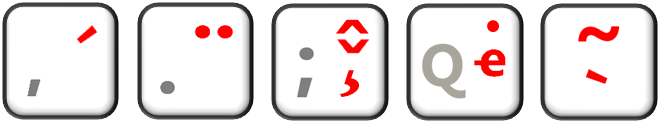
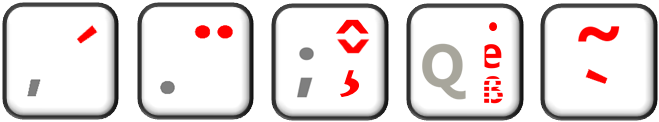
Add files via upload

diff --git a/index.html b/index.html
@@ -241,6 +241,7 @@ It’s a good habit to leave a space after it.)
         <img class="keyIcon" src="img/q.png" alt="q ligature key">
         <h3 class="hd">How to use this key</h3>
         <p class="sub">q+a/o → æ/œ<br><small></small>
+		q+s → ß <small></small><br>
 		qq+abcdefghmnoprstwxyz → ȧḃċḋėḟġḣṁṅȯṗṙṡṫẇẋẏż <small></small><br>
 		Otherwise, it stays as just q</p>
         <div class="rule">
@@ -619,7 +620,7 @@ if (countTrailing(pad, ';') >= 2 && mapCaron[k]) {
 }
 
 // before: if (hasTrailingOne(pad, 'q') && (k==='a'||k==='A'||k==='o'||k==='O'))
-if (countTrailing(pad, 'q') === 1 && (k==='a'||k==='A'||k==='o'||k==='O')) {
+if (countTrailing(pad, 'q') === 1 && (k==='a'||k==='A'||k==='o'||k==='O'||k==='s'||k==='S')) {
   ev.preventDefault(); snapshot();
   const { start } = sel(pad);
   let out = k;
@@ -627,6 +628,8 @@ if (countTrailing(pad, 'q') === 1 && (k==='a'||k==='A'||k==='o'||k==='O')) {
   else if (k === 'A') out = 'Æ';
   else if (k === 'o') out = 'œ';
   else if (k === 'O') out = 'Œ';
+  else if (k === 's') out = 'ß';
+  else if (k === 'S') out = 'ẞ';
 
   lastTransform = { trigger: 'q', target: k, posAfterTrigger: (start - 1) + 1 };
   replaceRange(pad, start - 1, start, out);
